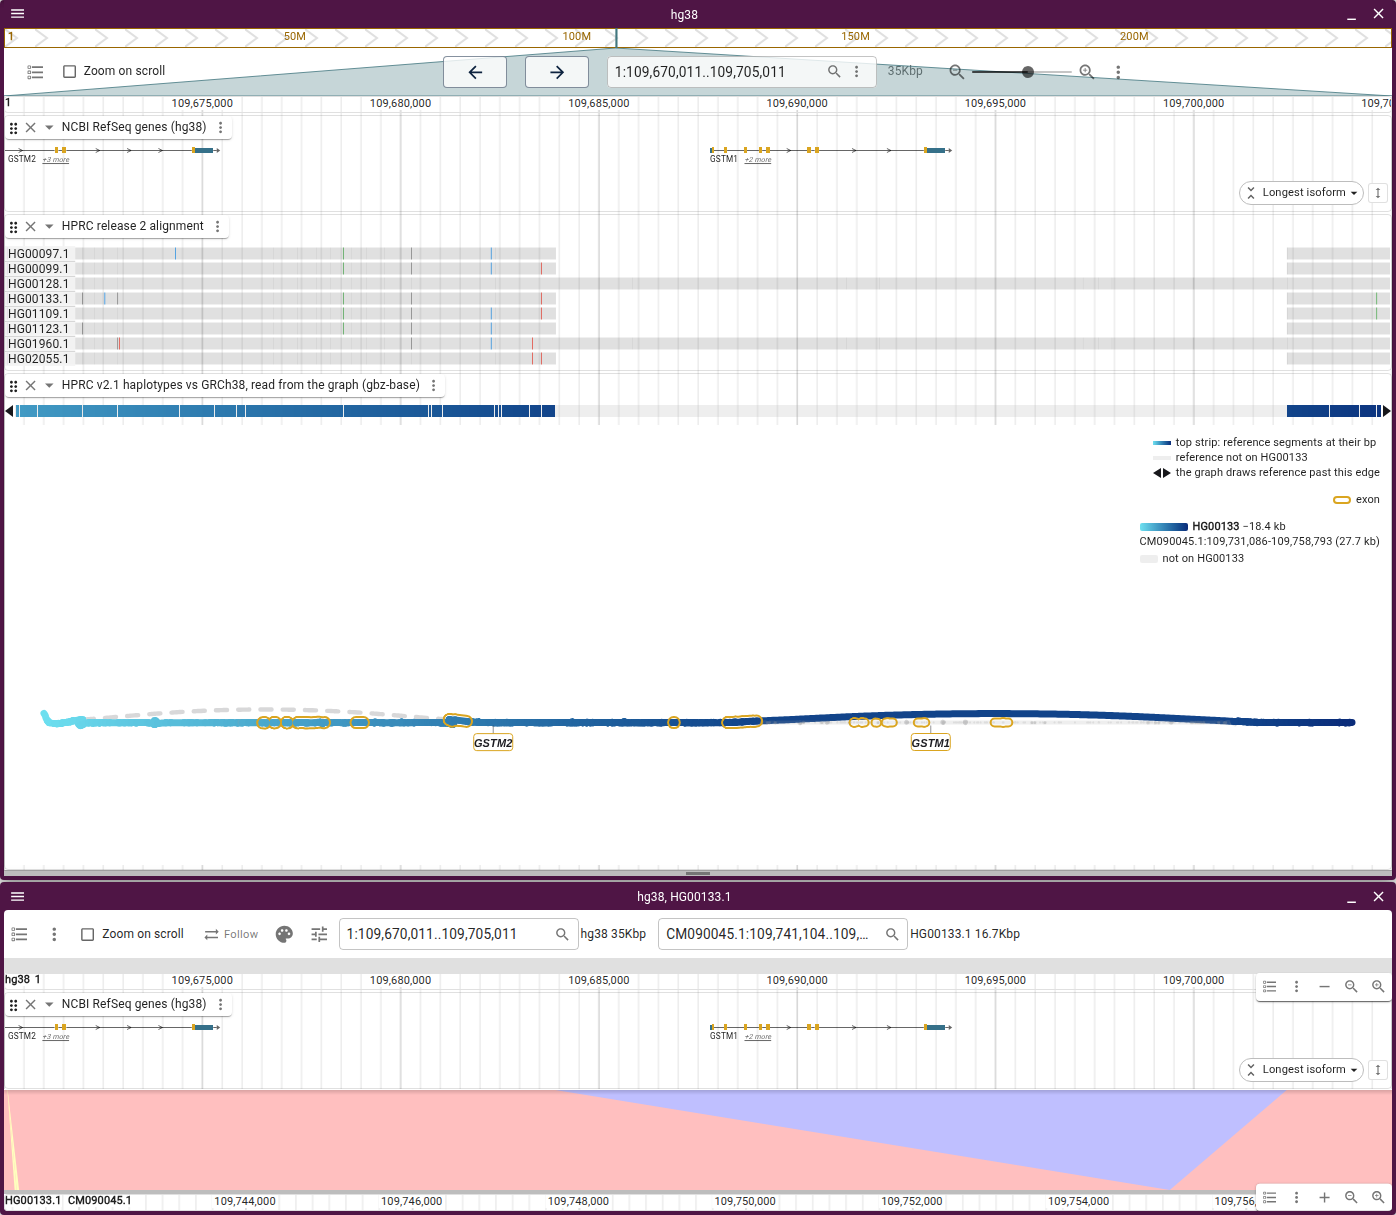
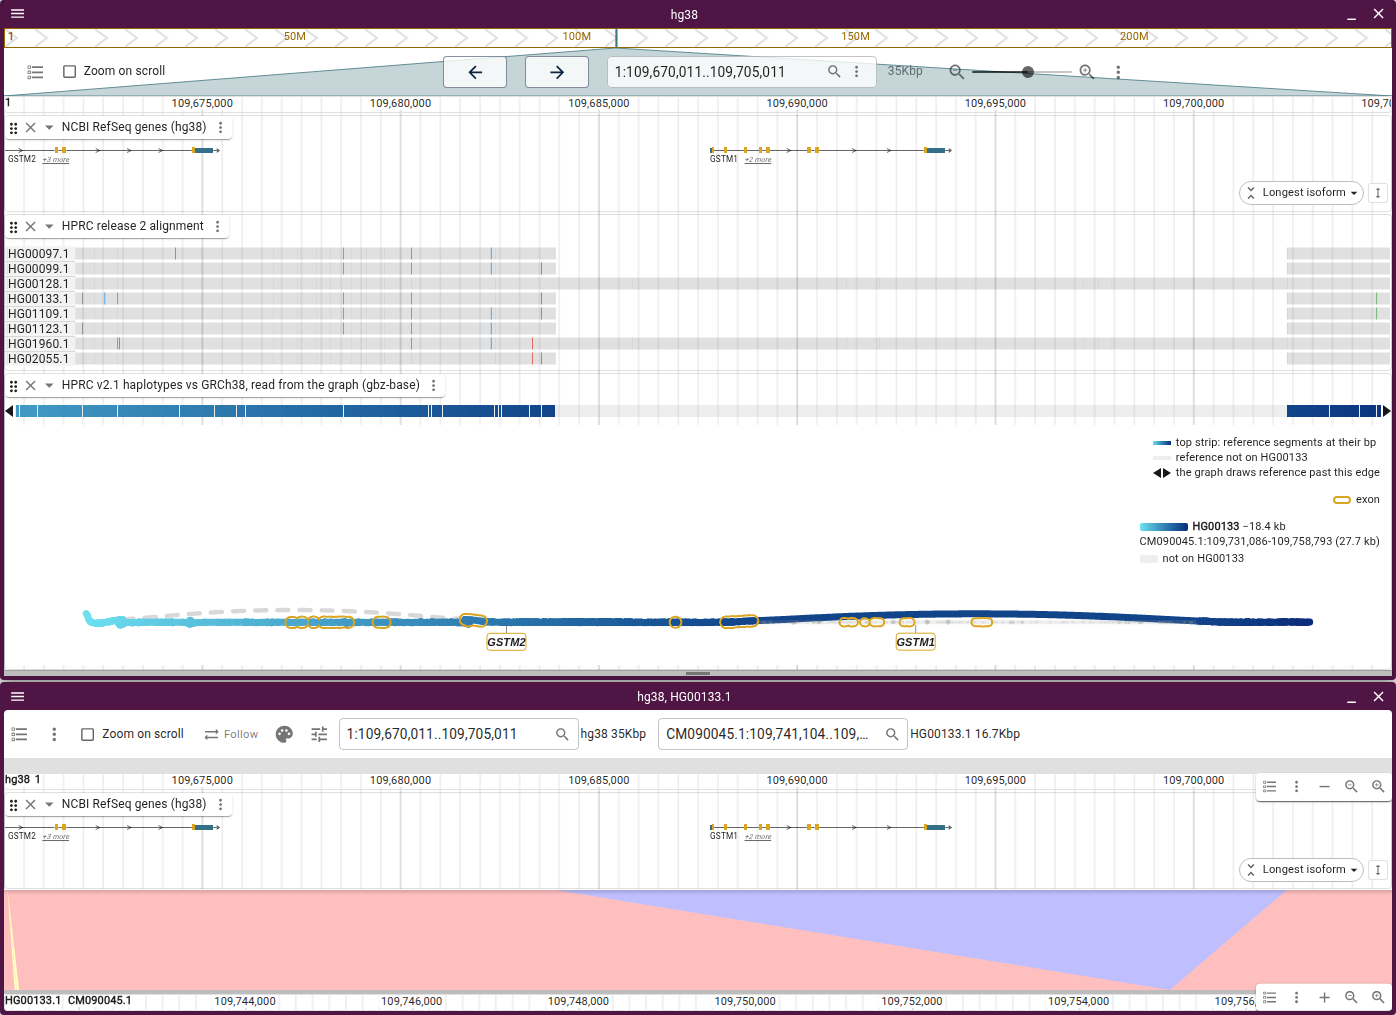
force_gstm1_walk on a 260 px track, its caption naming the chord over GSTM1
Under the stress engine the drawing is a line, and HG00133's chord over
the 18.5 kb it skips (421 nodes, drawn under GSTM1) bows just above the
pale reference; 460 px left it a thin line in an empty pane.

Changed region(s): [[0.0, 0.5803, 1.0, 1.0], [0.0, 0.0, 1.0, 0.5498], [0.7701, 0.2749, 0.8009, 0.3054]]

diff --git a/docs/layouts.md b/docs/layouts.md
@@ -297,12 +297,12 @@ ones, and **Choose haplotypes...** searches the rest by name. A walk lifted
 alone shades light to dark along itself, so it can be followed round a loop; its
 key is a short bar of that gradient, with the stretch it runs over on the walk's
 own contig written under it as `contig:start-end (length)`. At GSTM1, HG00133
-runs cyan to navy past the 18 kb its deletion skips. The synteny view under it
-reads the same track as HG00133 aligned to GRCh38, and the deletion is the wedge
-pinched to a point on HG00133's contig. HPRC's own wfmash alignment puts it in
-the same place, inside the repeat that flanks GSTM1. Above the graph, six of the
-cut's eight haplotypes break across GSTM1 in the multiple alignment, HG00133
-among them:
+runs cyan to navy past the 18 kb its deletion skips, a chord over GSTM1's pale
+reference. The synteny view under it reads the same track as HG00133 aligned to
+GRCh38, and the deletion is the wedge pinched to a point on HG00133's contig.
+HPRC's own wfmash alignment puts it in the same place, inside the repeat that
+flanks GSTM1. Above the graph, six of the cut's eight haplotypes break across
+GSTM1 in the multiple alignment, HG00133 among them:
 
 ![HG00133's walk lifted at GSTM1 under the eight haplotypes' alignment rows, shading along itself past the stretch it skips, over a synteny view of HG00133 against GRCh38 whose wedge is the deletion](../img/force_gstm1_walk.png)
 
